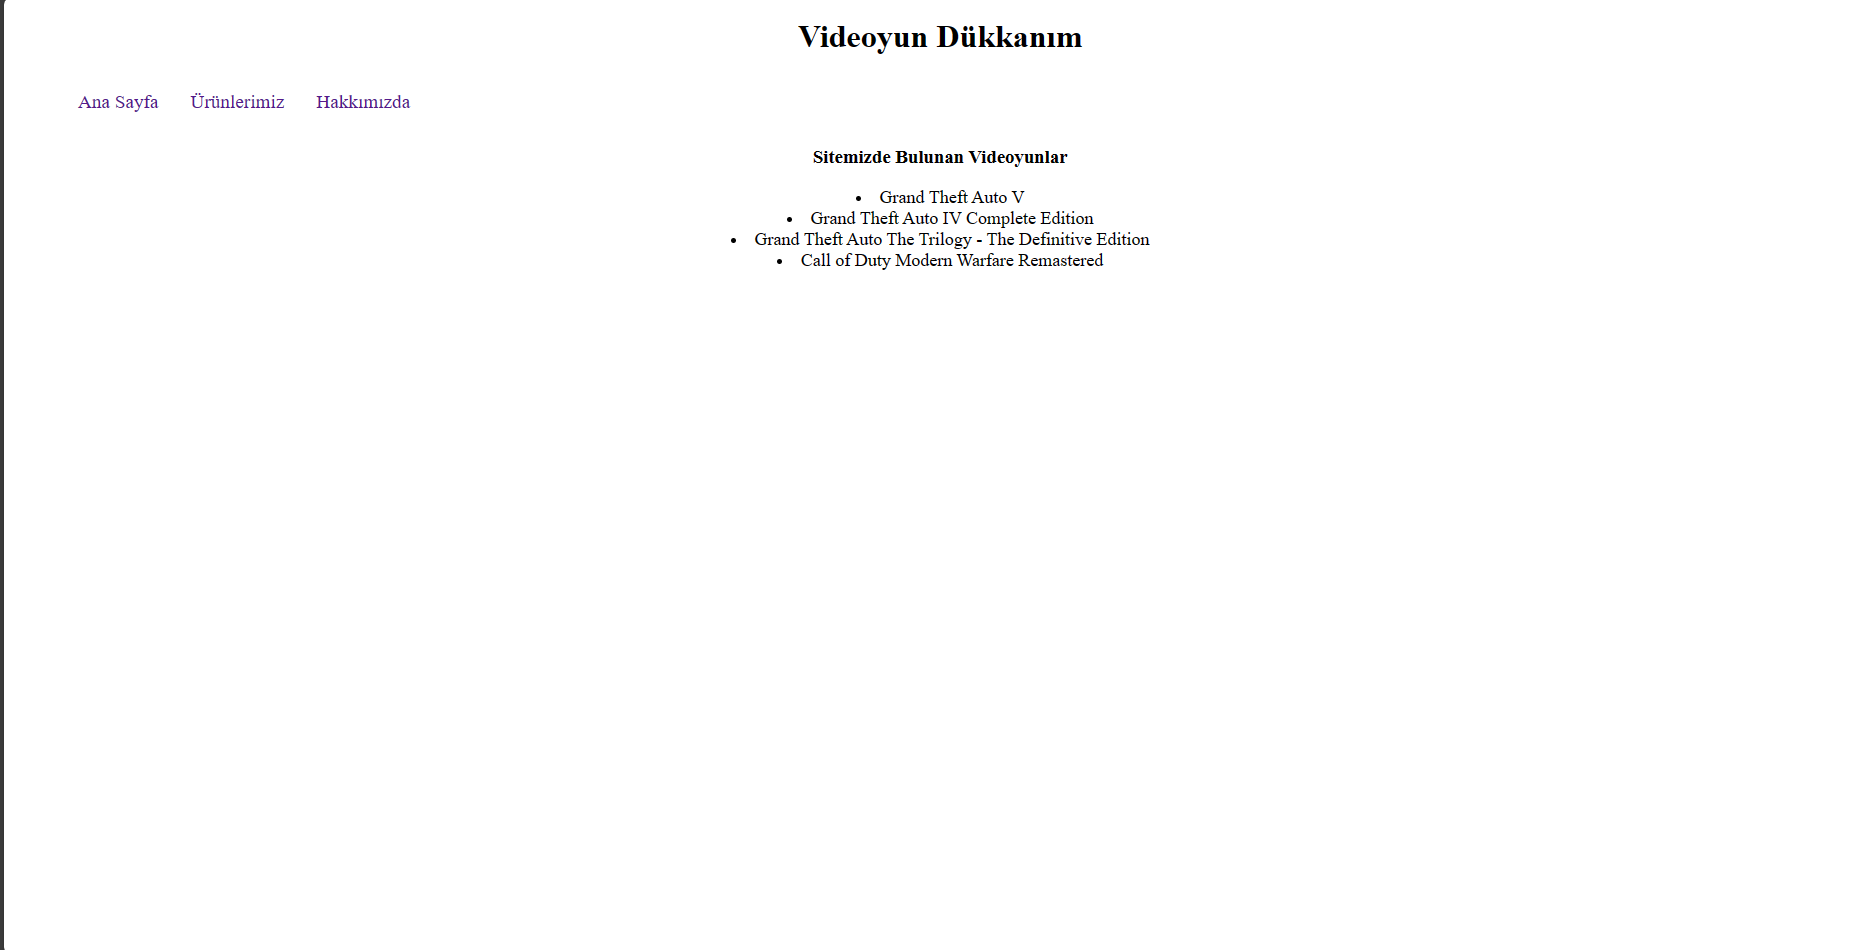
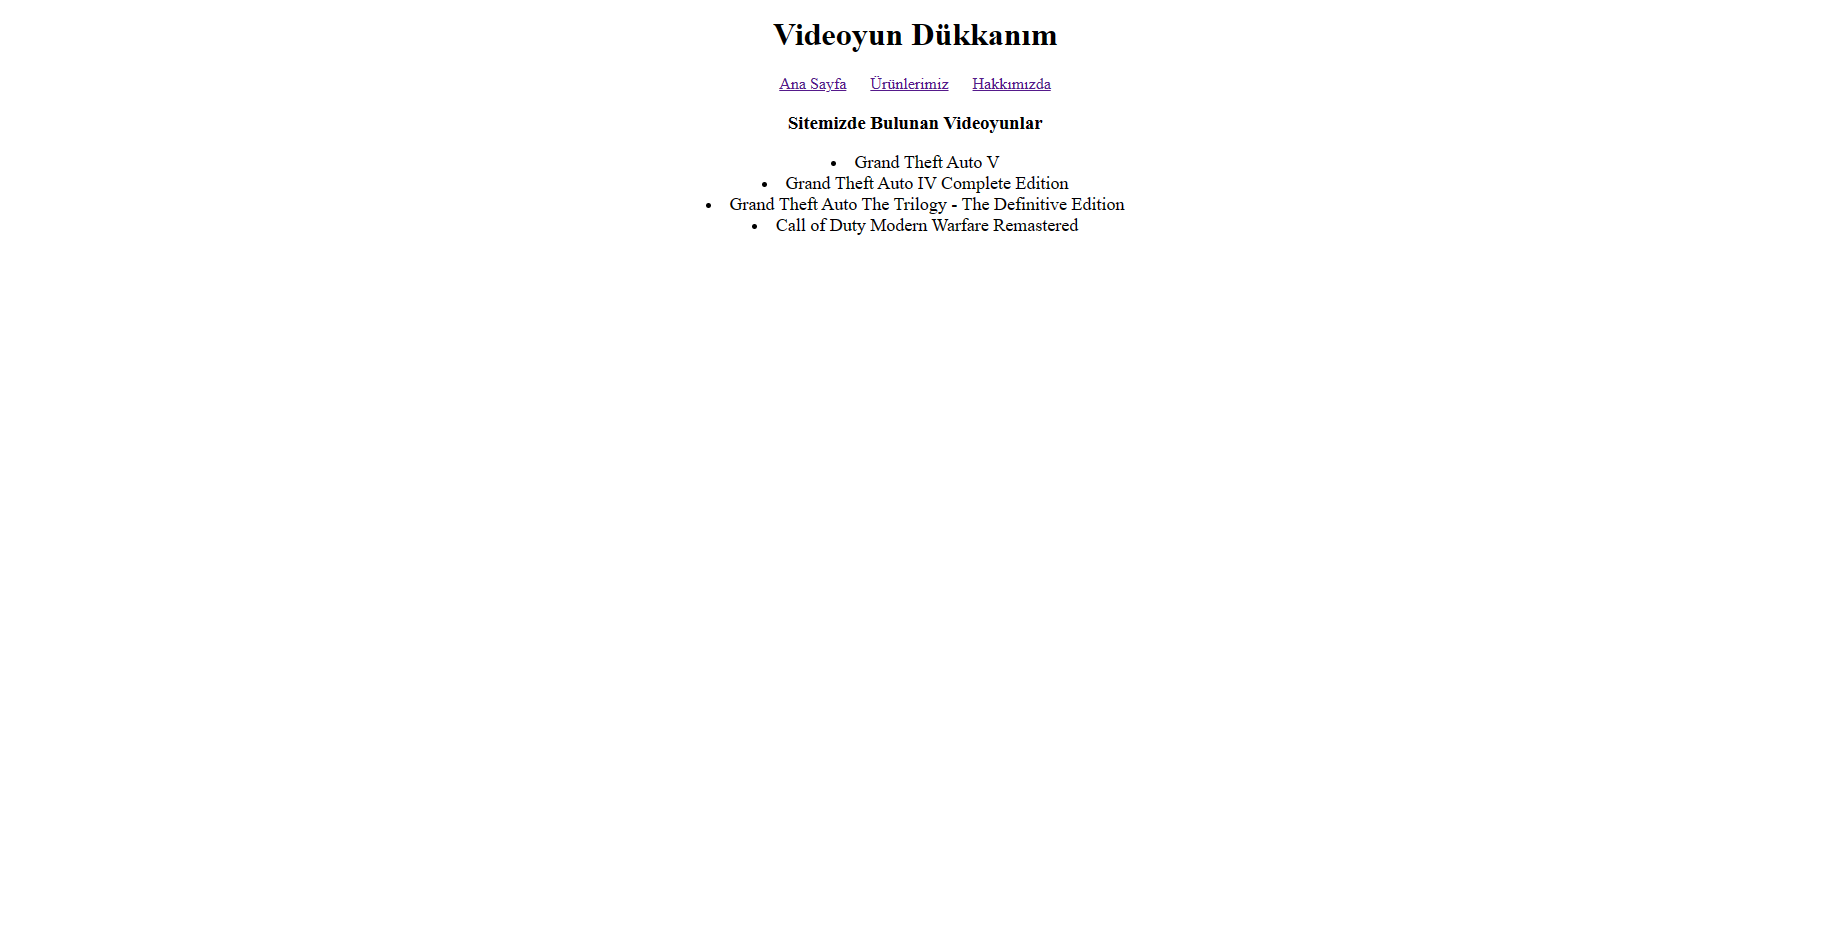
Add files via upload

Changed region(s): [[0.4051, 0.1225, 0.6233, 0.3062], [0.4051, 0.0, 0.5921, 0.0919], [0.0312, 0.0919, 0.2182, 0.1225]]

diff --git a/css_odev1/index.html b/css_odev1/index.html
@@ -9,13 +9,11 @@
 <body>
     <div id="header">
         <h1>Videoyun Dükkanım</h1>
-        <nav>
-            <ul>
-                <li><a href="index.html">Ana Sayfa</a></li>
-                <li><a href="product.html">Ürünlerimiz</a></li>
-                <li><a href="about_us.html">Hakkımızda</a></li>
-            </ul>
-        </nav><!-- nav bu list değil -->
+        <center><nav>
+            <a href="index.html">Ana Sayfa</a>
+            <a href="product.html">Ürünlerimiz</a>
+            <a href="about_us.html">Hakkımızda</a>
+        </nav></center><!-- nav bu list değil -->
     </div>
     <div id="section">
         <h3>Sitemizde Bulunan Videoyunlar</h3>

diff --git a/css_odev1/about_us.html b/css_odev1/about_us.html
@@ -9,13 +9,11 @@
 <body>
     <div id="header">
         <h1>Videoyun Dükkanım</h1>
-        <nav>
-            <ul>
-                <li><a href="index.html">Ana Sayfa</a></li>
-                <li><a href="product.html">Ürünlerimiz</a></li>
-                <li><a href="about_us.html">Hakkımızda</a></li>
-            </ul>
-        </nav>
+        <center><nav>
+                <a href="index.html">Ana Sayfa</a>
+                <a href="product.html">Ürünlerimiz</a>
+                <a href="about_us.html">Hakkımızda</a>
+        </nav></center>
     </div>
     <div id="section">
         <h3>Hakkımızda</h3>

diff --git a/css_odev1/product.html b/css_odev1/product.html
@@ -9,13 +9,11 @@
 <body>
     <header>
         <h1>Videoyun Dükkanım</h1>
-        <nav>
-            <ul>
-                <li><a href="index.html">Ana Sayfa</a></li>
-                <li><a href="product.html">Ürünlerimiz</a></li>
-                <li><a href="about_us.html">Hakkımızda</a></li>
-            </ul>
-        </nav>
+        <center><nav>
+                <a href="index.html">Ana Sayfa</a>
+                <a href="product.html">Ürünlerimiz</a>
+                <a href="about_us.html">Hakkımızda</a>
+        </nav></center>
     </header>
     <div id="section">
         <h3>Videoyunlar</h3>

diff --git a/css_odev1/design.css b/css_odev1/design.css
@@ -1,20 +1,8 @@
 h1, h3{
     text-align: center;
 }
-nav ul {
-    font-size: larger;
-    list-style-type: none;
-    list-style-position: inside;
-    overflow: auto;
-}
-nav li {
-    text-align: center;
-    float: left;
-}
-nav li a {
-    display: inline-block;
-    padding: 14px 16px;
-    text-decoration: none;
+nav a {
+    padding: 0 10px;
 }
 ul {
     font-size: large;
